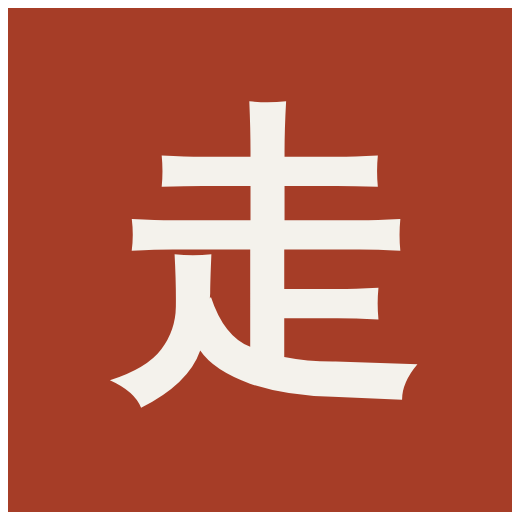
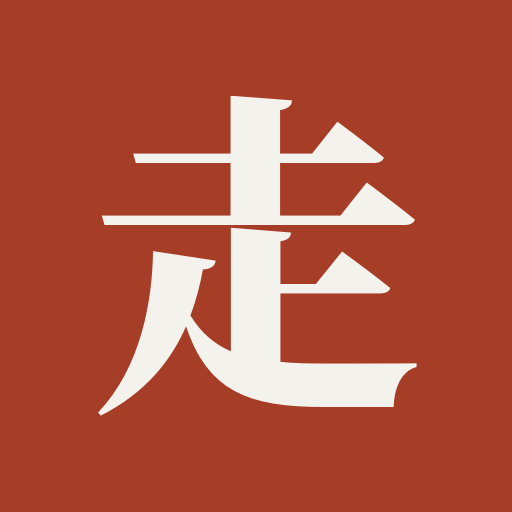
界面一批：出发前、常见问题、图标、景点一行、舌尖推荐、底栏、博物馆行

Changed region(s): [[0.1875, 0.1875, 0.8125, 0.8125], [0.0, 0.0, 1.0, 1.0]]

diff --git a/site_src/site.css b/site_src/site.css
@@ -461,3 +461,15 @@ h2,h3,.items h3{text-wrap:balance}.hero-t h1 .nw,.cv h2 .nw{display:inline-block
 .se .sjd{margin:8px 0 0;font-size:13px;line-height:1.7;color:#3d3f3a}.se .sjd b{margin-right:6px;color:var(--red)}.se .sjd a{font-weight:700;color:var(--red)}
 .sjs{padding:24px 20px 0}.sjs h2{margin:0;font:900 22px var(--serif)}.sjs h3{margin:16px 0 4px;font-size:13px;font-weight:700;color:var(--red);letter-spacing:.06em}
 .sjl{list-style:none;margin:0;padding:0}.sjl li{padding:10px 0;border-top:1px solid var(--line)}.sjl b{display:block;font:900 16px/1.4 var(--serif)}.sjl span{display:block;font-size:13px;color:#3d3f3a}.sjl small{display:block;margin-top:2px;font-size:13px}.sjl small a{margin-right:10px;font-weight:700;color:var(--red)}
+
+/* 出发前：只是提示（没有打勾框）的那条不缩进 */
+.pre li.tip{padding-left:0}
+/* 常见问题按钮：和“看全部 N 天”同一个样子 */
+.faqmore{display:block;width:100%;height:44px;margin-top:4px;border:0;background:var(--card);font-size:14px;font-weight:700;color:var(--ink);cursor:pointer;-webkit-appearance:none;appearance:none;border-radius:0}
+.faq dl:not([hidden])+.faqmore{margin-top:8px}
+/* 底栏：收进行程、按天看两个按钮挨着放在右边 */
+.dock{justify-content:flex-start}.dock>div:first-child,.dock>a:first-child{flex:1;min-width:0}.dock .fav{margin-left:auto}.dock .tvbtn{margin-left:6px}
+/* 目的地页博物馆：名字和镇馆之宝占左边一整块，国宝和图标靠右不挤 */
+.qual.mus li>span{flex:1;min-width:0}.qual.mus li>span b{display:block}.qual.mus .gt{display:block;margin-top:2px;font-size:12px;font-weight:400;color:var(--sub)}.qual.mus .gb,.qual.mus .icg{flex:none}
+.qual.mus li>span{flex:none}.qual.mus li>span:first-child{flex:1 1 auto;min-width:0}.qual.mus li>span.icg{flex:none;display:inline-flex;flex-wrap:nowrap}.qual.mus small.gt{display:block;white-space:normal;word-break:normal}
+.qual.mus small.gt{width:auto;text-align:left;align-self:stretch}.qual.mus li>span.icg{flex-direction:row;width:auto;gap:6px}

diff --git a/tools/build_site.py b/tools/build_site.py
@@ -520,7 +520,7 @@ def page(path, title, desc, body, jsonld=(), image=None, crumbs=()):
 <meta name="twitter:card" content="summary_large_image">
 <meta name="theme-color" content="#f4f2ec">
 <link rel="icon" href="/img/favicon.svg" type="image/svg+xml">
-<link rel="manifest" href="/manifest.webmanifest"><link rel="apple-touch-icon" href="/img/icon-192.png">
+<link rel="icon" href="/img/favicon-32.png" sizes="32x32" type="image/png"><link rel="manifest" href="/manifest.webmanifest"><link rel="apple-touch-icon" href="/img/apple-touch-icon.png">
 <link rel="stylesheet" href="/assets/fonts/sans.css"><link rel="stylesheet" href="/assets/fonts/serif.css">
 <link rel="stylesheet" href="/assets/site.css?v={ASSET_V}">
 {ld}
@@ -595,10 +595,12 @@ def row_html(w, city, app):
         main = E(w.get('name')); sub = ' · '.join(x for x in [E(w.get('d')), E(w.get('kb'))] if x); kw = w.get('poi')
         mu = museum_of(w.get('name')) or museum_of(w.get('poi'))
         bk_ = book_of(w.get('name')); sg_ = sight_of(w.get('name')); tx_ = tix_of(w.get('name'))
-        if tx_:
+        if tx_:   # 时长、门票、一句话并成一行：门票写短（“约 100 元”），开放时间不写，只留“周一闭馆”这种
             _tt = re.sub(r'（要(实名)?预约）', '', tx_.get('t') or '') if bk_ else (tx_.get('t') or '')   # 上面已经写了“要预约”
-            sub = (sub + '</p><p class="s tix">' if sub else '') + E(' · '.join(x for x in [('门票 ' + _tt) if _tt else '', ('开放 ' + tx_['h']) if tx_.get('h') else '', tx_.get('c', '')] if x)) 
-        if sg_ and not (mu and mu['treasures']): sub = (sub + '</p><p class="s sn2">' if sub else '') + E(sg_)
+            _tt = re.sub(r'(\d[\d,]*)\s*元左右', r'约 \1 元', _tt)
+            _tx = ' · '.join(x for x in [(_tt if '免费' in _tt[:6] else '门票' + ('' if _tt.startswith(('约', '旺季')) else ' ') + _tt) if _tt else '', tx_.get('c', '')] if x)
+            if _tx: sub = (sub + ' · ' if sub else '') + '<span class="tix">' + E(_tx) + '</span>'
+        if sg_ and not (mu and mu['treasures']): sub = (sub + ' · ' if sub else '') + '<span class="sn2">' + E(sg_) + '</span>'
         if mu and mu['treasures']:
             main += '<span class="gb">国宝</span>'
             note_ = re.sub(r'，?(要提前预约|要预约)', '', mu.get('note') or '').strip('，')
@@ -1072,7 +1074,7 @@ def trip_page(rid):
         navprev = lastpt
         rows = [w for k_, w in enumerate(rows) if not (w['type'] == 'dep' and w.get('to') == '吃晚饭' and (w.get('how') or '') in ('打车或步行', ''))]
         days.append(f'<section class="day" id="d{i + 1}"><header><span class="no">{i + 1:02d}</span><div><small>{cn_day(i)} · {md(dates[i])} 周{WEEK[dates[i].weekday()]}</small><h2>{E(d["title"])}</h2></div></header>'
-                    f'<div class="facts">{fx}</div><p class="cl" data-clim=\'{E(json.dumps({**(d0.get("climate") or {}), **(d.get("clim") or {})}))}\'>{("往年 " + str(dates[i].month) + " 月平均：白天 " + str((d.get("clim") or {}).get(str(dates[i].month), ["", ""])[0]) + "℃，夜里 " + str((d.get("clim") or {}).get(str(dates[i].month), ["", ""])[1]) + "℃") if (d.get("clim") or {}).get(str(dates[i].month)) else ""}</p>' + (''.join(f'<p class="sjn"><b>{E(x.get("show") or "舌尖上的中国")}</b>{E(sj_label(x))}拍过：{E(x["food"])}（{E(x["place"])}）</p>' for x in _sj.get(i, []))) + f'{notes}<p class="lead">{E(d.get("text"))}</p><ol class="tl">{"".join(row_html(w, city, app) for w in rows)}</ol>{stays}{story}</section>')
+                    f'<div class="facts">{fx}</div><p class="cl" data-clim=\'{E(json.dumps({**(d0.get("climate") or {}), **(d.get("clim") or {})}))}\'>{("往年 " + str(dates[i].month) + " 月平均：白天 " + str((d.get("clim") or {}).get(str(dates[i].month), ["", ""])[0]) + "℃，夜里 " + str((d.get("clim") or {}).get(str(dates[i].month), ["", ""])[1]) + "℃") if (d.get("clim") or {}).get(str(dates[i].month)) else ""}</p>' + (''.join(f'<p class="sjn"><b>{E(x.get("show") or "舌尖上的中国")}</b>推荐{E(x["food"])}（{E(x["place"])}）</p>' for x in _sj.get(i, []))) + f'{notes}<p class="lead">{E(d.get("text"))}</p><ol class="tl">{"".join(row_html(w, city, app) for w in rows)}</ol>{stays}{story}</section>')
         sights += [w['name'] for w in d['rows'] if w['type'] == 'see' and w.get('poi')]
     desc = f'{r["title"]}：{n} 天按天排好，' + '、'.join(dict.fromkeys(re.split(r'\s*·\s*', ' · '.join(x['title'] for x in r['days']))))[:70] + '。' + season_text(t)
     ld = {'@context': 'https://schema.org', '@type': 'TouristTrip', 'name': r['title'], 'description': desc, 'url': BASE + f'/trip/{rid}/', 'inLanguage': 'zh-CN',
@@ -1082,7 +1084,7 @@ def trip_page(rid):
     lo, hi = (t.get('price') or {}).get('lo'), (t.get('price') or {}).get('hi')
     if lo and hi: ld['offers'] = {'@type': 'AggregateOffer', 'priceCurrency': 'CNY', 'lowPrice': lo, 'highPrice': hi, 'description': '每人，2 人同行，含往返大交通'}
     _fq = faq_items(r, t, d0, _g)
-    faq_html = (f'<section class="faq"><h2>常见问题</h2><dl hidden>' + ''.join(f'<dt>{E(q)}</dt><dd>{E(a)}</dd>' for q, a in _fq) + f'</dl><button type="button" class="ovmore faqmore">看 {len(_fq)} 个问题 ›</button></section>') if _fq else ''
+    faq_html = (f'<section class="faq"><h2>常见问题</h2><dl hidden>' + ''.join(f'<dt>{E(q)}</dt><dd>{E(a)}</dd>' for q, a in _fq) + f'</dl><button type="button" class="faqmore">看 {len(_fq)} 个问题 ›</button></section>') if _fq else ''
     _nb = nearby_routes(rid)
     near_html = ('<section class="nearr"><h2>附近还能去</h2><ul>' + ''.join(f'<li><a href="/trip/{o}/"><b>{E(ROUTES[o].get("label"))} ›</b><span>{E(day_line(ROUTES[o]))}</span><small>离这里约 {round(dk / 10) * 10 if dk >= 20 else round(dk)} 公里 · {E(price_k(ROUTES[o].get("price")))}</small></a></li>' for dk, o in _nb) + '</ul></section>') if _nb else ''
     dest_link = faq_html + near_html + (f'<p class="morelink"><a href="/d/{E(t["dest"])}/">{E(d0.get("name", ""))}的其他去处 ›</a></p>' if t.get('dest') in DEST else '')
@@ -1391,9 +1393,9 @@ if __name__ == '__main__':
         if os.path.exists('site_src/' + f): shutil.copy('site_src/' + f, os.path.join(OUT, f))
     for f in ('icon-192.png', 'icon-512.png'):
         if os.path.exists('site_src/' + f): shutil.copy('site_src/' + f, os.path.join(OUT, 'img', f))
-    for f in ('site.css', 'site.js', 'favicon.svg', 'og.png', 'qr.js'):
+    for f in ('site.css', 'site.js', 'favicon.svg', 'og.png', 'qr.js', 'apple-touch-icon.png', 'favicon-32.png'):
         src = os.path.join('site_src', f)
-        if os.path.exists(src): shutil.copy(src, os.path.join(OUT, 'img' if f in ('favicon.svg', 'og.png') else 'assets', f))
+        if os.path.exists(src): shutil.copy(src, os.path.join(OUT, 'img' if f in ('favicon.svg', 'og.png', 'apple-touch-icon.png', 'favicon-32.png') else 'assets', f))
     trip_desc = {rid: trip_page(rid) for rid in ROUTE_IDS}
     dest_desc = {d['id']: dest_page(d) for d in CAT['destinations']}
     sj_hit = shejian_page(); shejian_page('风味人间', '/fengwei/', ('舌尖上的中国', '/shejian/'))

diff --git a/tests/webkit_ui_batch9.py b/tests/webkit_ui_batch9.py
@@ -1,0 +1,19 @@
+import json
+from playwright.sync_api import sync_playwright
+with sync_playwright() as p:
+    b=p.webkit.launch(); c=b.new_context(**p.devices['iPhone 13']); pg=c.new_page(); out={}; errs=[]; pg.on('pageerror',lambda e:errs.append(str(e)[:80]))
+    pg.goto('http://localhost:8765/trip/fh3/',wait_until='networkidle'); pg.wait_for_timeout(400)
+    pg.evaluate("()=>{document.documentElement.style.scrollBehavior='auto';const s=document.querySelector('section.pre:not(.go)');scrollTo(0,s.getBoundingClientRect().top+scrollY-60)}"); pg.wait_for_timeout(200); pg.screenshot(path='/tmp/U1.png')
+    pg.evaluate("()=>{const s=document.querySelector('#d1 .tl');scrollTo(0,s.getBoundingClientRect().top+scrollY-200)}"); pg.wait_for_timeout(200); pg.screenshot(path='/tmp/U2.png')
+    if pg.locator('.faqmore').count():
+        pg.evaluate("()=>{const s=document.querySelector('.faq');scrollTo(0,s.getBoundingClientRect().top+scrollY-200)}"); pg.wait_for_timeout(200)
+        pg.locator('.faqmore').click(); pg.wait_for_timeout(300); out['常见问题点开后']=pg.evaluate("({shown:!document.querySelector('.faq dl').hidden,qs:document.querySelectorAll('.faq dt').length,btn:document.querySelector('.faqmore').innerText})"); pg.screenshot(path='/tmp/U3.png')
+    out['底栏两个按钮间距']=pg.evaluate("(()=>{const a=document.querySelector('.dock .fav').getBoundingClientRect(),b=document.querySelector('.dock .tvbtn').getBoundingClientRect();return Math.round(b.left-a.right)+' 像素'})()")
+    pg.goto('http://localhost:8765/d/guangxi/',wait_until='networkidle'); pg.wait_for_timeout(300)
+    pg.evaluate("()=>{document.documentElement.style.scrollBehavior='auto';const s=document.querySelector('.qual.mus');if(s)scrollTo(0,s.getBoundingClientRect().top+scrollY-120)}"); pg.wait_for_timeout(200); pg.screenshot(path='/tmp/U4.png')
+    out['报错']=errs; print(json.dumps(out,ensure_ascii=False)); b.close()
+from PIL import Image
+ims=[Image.open(f'/tmp/U{i}.png') for i in (1,2,3,4)]; ims=[im.resize((300,int(im.height*300/im.width))) for im in ims]
+H=max(min(im.height,650) for im in ims); cc=Image.new('RGB',(4*306,H),'white')
+for k,im in enumerate(ims): cc.paste(im.crop((0,0,300,min(im.height,H))),(k*306,0))
+cc.save('/tmp/UI9.png')
